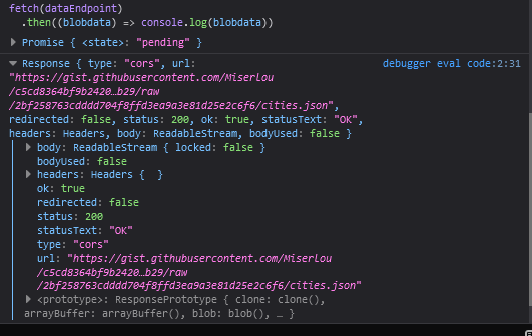
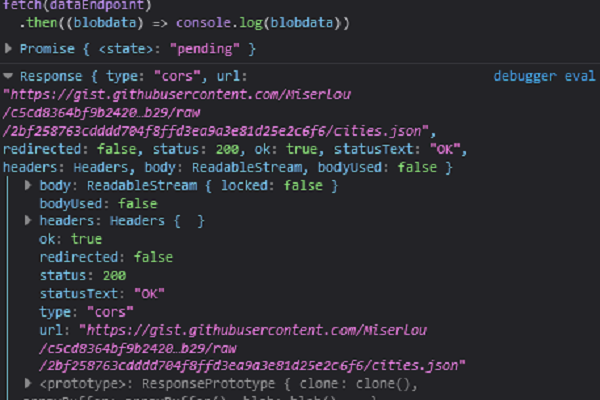
Effected changes of correction and resized images

diff --git a/content/articles/create-an-ajax-type-ahead-feature-for-a-website/index.md b/content/articles/create-an-ajax-type-ahead-feature-for-a-website/index.md
@@ -14,11 +14,11 @@ images:
     alt: Create a Type Ahead Feature in JavaScript using Fetch and Regex Hero Image
 ---
 
-Part of the job of a front-end developer is to create intuitive user interfaces that deliver the best user experience to website users. Part of getting this job done is by creating search suggestions or what is known as the type-ahead feature for websites/webpages.
+Creating an intuitive user interface that provides the best user experience for website users is part of the job of front-end developers. Part of this job is to create a search suggestions or text completion for websites / web pages.
 
 <!--more-->
 
-This tutorial will explain how to create an **ajax type-ahead feature** for your website using the [cities.json file](). This file contains information about states and cities in America. What this feature does is, if a user types `name`, every state and city that matches the word name pops up.
+This tutorial will explain how to create an **ajax type-ahead feature** for your website using the [cities.json file](https://gist.githubusercontent.com/Miserlou/c5cd8364bf9b2420bb29/raw/2bf258763cdddd704f8ffd3ea9a3e81d25e2c6f6/cities.json). This file contains information about states and cities in America. What this feature does is, if a user types `name`, every state and city that matches the word name pops up.
 
 ### Prerequisites
 
@@ -26,7 +26,7 @@ To follow along with this tutorial, the reader should have:
 
 - Basic HTML and CSS knowledge.
 - ES6 JavaScript/Asynchronous JavaScript.
-- A Code editor.
+- A code editor.
 - An [understanding of Regular Expression (RegExp)](https://eloquentjavascript.net/09_regexp.html)
 
 ### Table of contents
@@ -47,7 +47,10 @@ To follow along with this tutorial, the reader should have:
 This method uses `Promise` to deliver more flexible features to make requests to servers from the web browsers.
 
 _Syntax_
-`Fetch(URL, options)`
+
+```js
+Fetch(URL, options);
+```
 
 The fetch method requires the URL of the resource requested and an optional parameter that allows you to control other settings. Find more about fetch [here](https://developer.mozilla.org/en-US/docs/Web/API/Fetch_API/Using_Fetch).
 
@@ -255,9 +258,9 @@ fetch(dataEndpoint)
   .then((data) => cities.push(...data));
 ```
 
-> The blobdata object, in turn, does not contain the actual JSON response body but is instead a representation of the entire HTTP response. To extract the JSON body content from the Response object, we use the `JSON()` method, which returns a second promise that resolves with the result of parsing the response body text as JSON. -[MDN](https://developer.mozilla.org/en-US/docs/Web/API/Fetch_API/Using_Fetch)
+> The blobdata object, in turn, does not contain the actual JSON response body but is instead a representation of the entire HTTP response. To extract the JSON body content from the Response object, we use the `JSON()` method. This method returns a second promise that resolves with the result of parsing the response body text as JSON. - [Using the Fetch API](https://developer.mozilla.org/en-US/docs/Web/API/Fetch_API/Using_Fetch)
 
-![Blobdata output](./returned-blobdata.png)
+![Blobdata output](/engineering-education/create-an-ajax-type-ahead-feature-for-a-website/returned-blobdata.png)
 _blobdata returns entire HTTP response_
 
 Here are a few things to note:
@@ -265,7 +268,7 @@ Here are a few things to note:
 - We defined the empty cities array using a `const` declaration, so we cannot reassign data into it. We can only declare the cities array with a `let` keyword.
 - Alternatively, you can push and [spread the data into the cities array](https://www.samanthaming.com/tidbits/92-6-use-cases-of-spread-with-array/).
 - Create a function called `getMatches` that takes two arguments, the `wordToMatch`and the `cities` array.
-- In the function, we return a filtered subset of the `cities` array and check to see if what the user typed is returned. To check if what the user typed is inside the array, we will [use Regex](https://www.w3schools.com/js/js_regexp.asp) to check if the searched word match any state or city in the `cities` array.
+- In the function above, we will return a filtered subset of the `cities` array to confirm that what the user typed is returned. To acheive this, we will use [Regex](https://www.w3schools.com/js/js_regexp.asp) to check if the searched word matches any state or city in the `cities` array.
 
 ```js
 function getMatches(wordToMatch, cities) {
@@ -276,7 +279,7 @@ function getMatches(wordToMatch, cities) {
 }
 ```
 
-![Arrays of objects returned getMatches function](./console-output.png)
+![Arrays of objects returned getMatches function](/engineering-education/create-an-ajax-type-ahead-feature-for-a-website/console-output.png)
 _Arrays of objects returned by the `getMatches` Function_
 
 ### Displaying data to the UI
@@ -463,7 +466,7 @@ function displayMatchedResults() {
 
 ### Final output
 
-![The final output](./output.png)
+![The final output](/engineering-education/create-an-ajax-type-ahead-feature-for-a-website/output.png)
 _Final output using 'gon' as the search term_
 
 ### Conclusion
